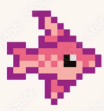
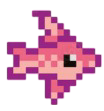
Some UI and functional changes
Fishes move semi random

Space to black rectrangle

Removed png white background

diff --git a/fish.py b/fish.py
@@ -2,6 +2,38 @@ import os
 import pygame
 import sys
 import random
+import math
+
+class SwimmingFish:
+    def __init__(self, image, tile_rect, fish_index):
+        self.image_original = image
+        self.image = image
+        self.angle = random.uniform(0, 360)
+        self.tile_rect = tile_rect
+        self.fish_index = fish_index
+        # Start fish in center of tile
+        self.x = tile_rect.x + tile_rect.width / 2
+        self.y = tile_rect.y + tile_rect.height / 2
+        self.speed = 1  # You can randomize this too
+
+    def update(self):
+        # Move the fish in its current direction
+        dx = self.speed * pygame.math.Vector2(1, 0).rotate(-self.angle).x
+        dy = self.speed * pygame.math.Vector2(1, 0).rotate(-self.angle).y
+        self.x += dx
+        self.y += dy
+
+        # Bounce off tile edges
+        if not self.tile_rect.collidepoint(self.x, self.y):
+            self.angle = (self.angle + 180 + random.uniform(-30, 30)) % 360
+
+        # Rotate image to face direction
+        self.image = pygame.transform.rotate(self.image_original, self.angle)
+
+    def draw(self, screen):
+        fish_rect = self.image.get_rect(center=(self.x, self.y))
+        screen.blit(self.image, fish_rect)
+
 
 def generate_random_tile_positions(tile_count, tile_size, screen_width, screen_height, padding=10):
     positions = []
@@ -30,6 +62,13 @@ def run_fishing_minigame():
     WHITE = (255, 255, 255)
     GREEN = (0, 255, 0)
 
+    # Load fish images
+    fish_images = [
+        pygame.transform.scale(pygame.image.load('fish_images/Orange.png').convert_alpha(), (25, 25)),
+        pygame.transform.scale(pygame.image.load('fish_images/pink.png').convert_alpha(), (25, 25)),
+        pygame.transform.scale(pygame.image.load('fish_images/Blue.png').convert_alpha(), (25, 25))
+    ]
+
     # Player
     player = pygame.Rect(100, 100, 50, 50)
     player_speed = 5
@@ -49,7 +88,14 @@ def run_fishing_minigame():
     # fishing_tile_size = 50
     # fishing_tile_count = 4
     fishing_tiles = generate_random_tile_positions(NUM_TILES, TILE_SIZE, WIDTH, HEIGHT)
-    tile_fish_indices = [random.randint(0, 2) for _ in range(NUM_TILES)]
+    # tile_fish_indices = [random.randint(0, 2) for _ in range(NUM_TILES)]
+    swimming_fish_list = []
+    for tile in fishing_tiles:
+        fish_index = random.randint(0, 2)
+        fish_img = fish_images[fish_index]
+        fish = SwimmingFish(fish_img, tile, fish_index)
+        swimming_fish_list.append(fish)
+
 
 
     # for _ in range(NUM_TILES):
@@ -68,13 +114,6 @@ def run_fishing_minigame():
     #         tile_fish_indices.append(random.randint(0, 2))
     #         break
 
-
-    # Load fish images
-    fish_images = [
-        pygame.transform.scale(pygame.image.load('fish_images/Orange.png').convert_alpha(), (25, 25)),
-        pygame.transform.scale(pygame.image.load('fish_images/pink.png').convert_alpha(), (25, 25)),
-        pygame.transform.scale(pygame.image.load('fish_images/Blue.png').convert_alpha(), (25, 25))
-    ]
 
     hand_image = pygame.transform.scale(
         pygame.image.load('fish_images/hand.png').convert_alpha(), (50, 50)
@@ -141,16 +180,15 @@ def run_fishing_minigame():
         #     slider_direction = 1
 
         if not fishing_minigame and keys[pygame.K_e]:
-            for idx, tile in enumerate(fishing_tiles):
-                if player.colliderect(tile):
+            for fish in swimming_fish_list:
+                if player.colliderect(fish.tile_rect):
                     fishing_minigame = True
-                    fish_index = tile_fish_indices[idx]
-                    current_fish = fish_data[fish_index]
+                    current_fish = fish_data[fish.fish_index]
                     slider_speed = current_fish["slider_speed"]
                     green_target.x = random.randint(ui_rect.x + 50, ui_rect.right - green_target_width - 50)
                     white_slider.x = ui_rect.x
                     slider_direction = 1
-                    active_tile_index = idx  # remember which tile is active
+                    # active_tile_index = idx  # remember which tile is active
                     break
 
 
@@ -165,8 +203,14 @@ def run_fishing_minigame():
                     earned_gold += current_fish["gold"]
                     fishing_minigame = False
                     # Refresh all fish and positions after successful catch
+                    # fishing_tiles = generate_random_tile_positions(NUM_TILES, TILE_SIZE, WIDTH, HEIGHT)
+                    # tile_fish_indices = [random.randint(0, 2) for _ in range(NUM_TILES)]
                     fishing_tiles = generate_random_tile_positions(NUM_TILES, TILE_SIZE, WIDTH, HEIGHT)
-                    tile_fish_indices = [random.randint(0, 2) for _ in range(NUM_TILES)]
+                    swimming_fish_list = []
+                    for tile in fishing_tiles:
+                        fish_index = random.randint(0, 2)
+                        fish_img = fish_images[fish_index]
+                        swimming_fish_list.append(SwimmingFish(fish_img, tile, fish_index))
                     # for i in range(len(tile_fish_indices)):
                     #     tile_fish_indices[i] = random.randint(0, 2)
                     # current_tile_fish_index = random.randint(0, 2)  # New fish on the tile!
@@ -193,13 +237,18 @@ def run_fishing_minigame():
         #     screen.blit(fish_img, (fish_x, fish_y))
 
         # Draw multiple blue fishing tiles with their respective fish
-        for i, tile in enumerate(fishing_tiles):
-            pygame.draw.rect(screen, BLUE, tile) #Change Blue Tile color here
+        # for i, tile in enumerate(fishing_tiles):
+        #     pygame.draw.rect(screen, (150, 200, 255), tile) #Change Blue Tile color here
+        #     if not fishing_minigame:
+        #         fish_img = fish_images[tile_fish_indices[i]]
+        #         fish_x = tile.x + (tile.width // 2) - (fish_img.get_width() // 2)
+        #         fish_y = tile.y + (tile.height // 2) - (fish_img.get_height() // 2)
+        #         screen.blit(fish_img, (fish_x, fish_y))
+        for fish in swimming_fish_list:
+            pygame.draw.rect(screen, (150, 200, 255), fish.tile_rect)
             if not fishing_minigame:
-                fish_img = fish_images[tile_fish_indices[i]]
-                fish_x = tile.x + (tile.width // 2) - (fish_img.get_width() // 2)
-                fish_y = tile.y + (tile.height // 2) - (fish_img.get_height() // 2)
-                screen.blit(fish_img, (fish_x, fish_y))
+                fish.update()
+                fish.draw(screen)
 
 
         # Player
@@ -214,6 +263,9 @@ def run_fishing_minigame():
             # Draw current fish icon inside UI
             screen.blit(pygame.transform.scale(fish_images[fish_index], (50, 50)),
                         (WIDTH - 70, ui_rect.y + 10))
+            space_text = font.render("Space", True, WHITE)
+            screen.blit(space_text, (ui_rect.x + 10 + shake_offset[0], ui_rect.y + 10 + shake_offset[1]))
+
 
         # Gold counter
         gold_text = font.render(f'Gold: {earned_gold}', True, (0, 0, 0))
